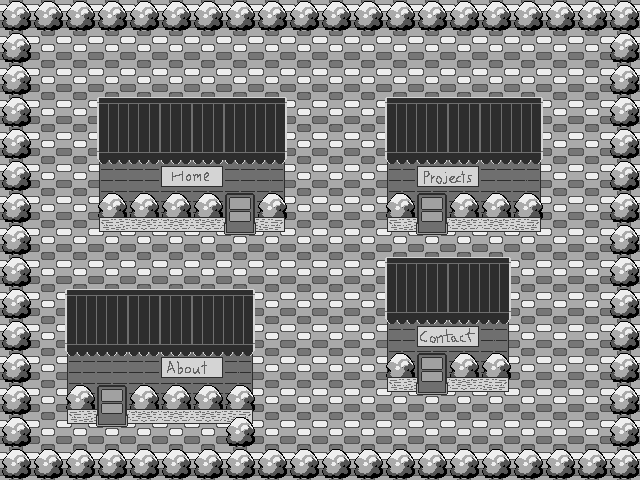
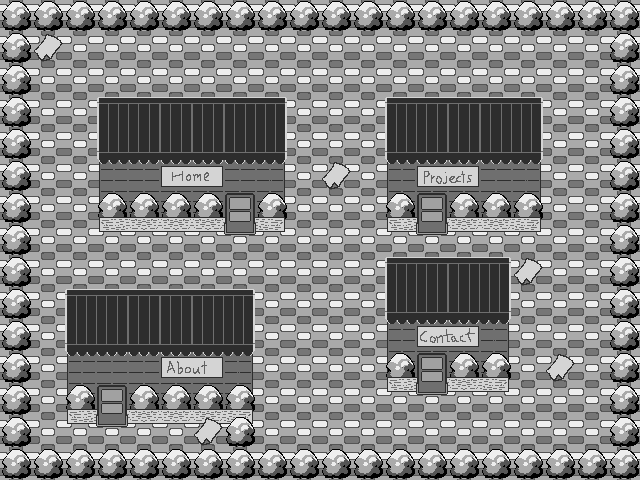
complete more translations, add resume sprites to nav grid

diff --git a/src/i18n/japanese.ts b/src/i18n/japanese.ts
@@ -79,31 +79,41 @@ export const japanese: ITranslation = {
         navigationGame: {
           title: "ナビゲーション",
           parts: [
-            "しばらくの間、新しいサイトナビゲーションのアプローチに興味がありました。",
-            "もちろん、ビジネスや組織向けのウェブサイトをデザインしている場合、ナビゲーションは目立たず使いやすいものであるべきです。おそらくユーザーにとってナビゲーション自体を気に留める必要はありません。",
-            "それは残念なことですが、サイトナビゲーションの実装方法には芸術的表現の余地もたくさんあります！",
-            "ウェブサイトにレトロゲームのテーマを選んだ際、最初は標準的なナビゲーションバー上のリンク間を2Dキャラクタースプライトが移動する形にしようと考えました。",
-            "しかし結局、現在のナビゲーションに落ち着きました。ユーザーが実際にページ間を移動するために小さな世界をナビゲートする形です。",
-            "実際には、自分好みに機能するようにするために小さな（そしてあまり良くない）ゲームエンジンを書かなければなりませんでした。",
-            "特にモバイル対応を作業するのは難しく、クリックして移動する機能を実装するためには、何らかの経路探索アルゴリズムが必要でした。機能の膨張とは言えますね！",
-            "しかし最終的には、技術的な観点からはかなり満足しています。少なくとも、ピクセルアートとアニメーションはまだ改善の余地がありますが、結果的には満足しています。"
+            "ウェブサイトのナビゲーションについて、最近興味をもつようになりました。",
+            "もちろん、ビジネスや組織向けの場合、ナビゲーションは目立たず使いやすいものであるべきです。ユーザーに、ナビゲーションがどうできているとか、考えさせた時点でアウトでしょう。",
+            "残念なことです。ウェブサイトの中で、ユーザーが実際操作するのは、ほとんどナビゲーションのことなのですから、個性を出す大きなチャンスです。",
+            "このサイトのテーマをレトロゲームにすると決めた時、まず標準的なナビゲーションバーの上に、2Dキャラクターが行き来する形にしようと考えました。",
+            "しかし色々考えたあげく、現在のナビゲーションにたどり着きました。ユーザーがページとページの間を移動する、小さな世界を実際にナビゲートする形です。",
+            "思う通りに出来上がるには、結局は小さく（かつ大してよくもない）ゲームエンジンを作らなければなりませんでした。",
+            "特にモバイル対応が大変で、クリックして移動するという機能を実装するには、経路探索アルゴリズムも必要になってきました。これぞフィーチャークリープです！",
+            "しかし最終的には、技術的な観点からはかなり満足しています。アートやアニメーションにはまだ改善の余地があるかもしれませんが…"
           ]
         }
       },
       me: {
         title: "作者",
         parts: [
-          "私の名前はジョン・スミスです。私はアメリカ人の在住外国人です。",
-          "私は日本の名古屋大学で言語学を学び、現在は韓国の沿岸の島で妻と共に小さなビジネスを経営しています。",
-          "私はコンピューターでの作業や様々な種類のゲーム、読書が好きです。",
+          "私はColby Birkheadと申します。アメリカ人ですけど、日本に行ったまま帰ってこない模様です。",
+          "日本の名古屋大学文学部で言語学を学び、卒業してから韓国の島で妻と共に小規模ビジネスを経営しています。",
+          "趣味はコンピューター、ゲーム、読書です。",
           "続き…"
-        ]
+        ],
+        callToAction: {
+          part1: "気に入っていただければ、",
+          here: "",
+          part2: "",
+          contactMe: "",
+          period: ""
+        }
       },
       myWork: {
         title: "作者の活動",
         parts: [
           "Uncaught exception: 'Not yet implemented.'"
-        ]
+        ],
+        final: "",
+        here: "",
+        period: "。"
       }
     }
   }

diff --git a/src/components/nav/navGame/defaultGrid/cells.ts b/src/components/nav/navGame/defaultGrid/cells.ts
@@ -1,11 +1,5 @@
 import { ICell, ICellPromptActionType } from "../../../../types/cell";
-import i18next, { t } from "i18next";
 
-// const treeCell: ICell = {
-//   isTraversable: false,
-//   isInteractable: true,
-//   interactText: 'Just an ordinary bush. Useful for keeping nosy adventurers on the right path.'
-// };
 const treeCell: ICell = {
   isTraversable: false,
   isInteractable: true,
@@ -63,18 +57,18 @@ const cells: ICell[][] = [
   [ treeCell, ...getNCell(2, groundCell),  ...getNCell(3, blockedCell), hedgeCell, ...getNCell(2, groundCell), ...getNCell(3, blockedCell), doorCell, groundCell,  treeCell],
   [ treeCell, ...getNCell(2, groundCell),  ...getNCell(3, blockedCell), hedgeCell, ...getNCell(2, groundCell), ...getNCell(3, blockedCell), hedgeCell, groundCell,  treeCell],
   [ treeCell, ...getNCell(2, groundCell),  ...getNCell(3, blockedCell), hedgeCell, ...getNCell(2, groundCell), ...getNCell(3, blockedCell), hedgeCell, groundCell,  treeCell],
-  [ treeCell, ...getNCell(2, groundCell),  ...getNCell(3, blockedCell), hedgeCell, ...getNCell(2, groundCell), ...getNCell(3, blockedCell), hedgeCell, groundCell,  treeCell],
+  [ treeCell, ...getNCell(2, groundCell),  ...getNCell(3, blockedCell), hedgeCell, ...getNCell(2, groundCell), ...getNCell(3, blockedCell), hedgeCell, resumeCell,  treeCell],
   [ treeCell, ...getNCell(2, groundCell),  ...getNCell(3, blockedCell), doorCell, ...getNCell(2, groundCell), ...getNCell(3, blockedCell), hedgeCell, treeCell,  treeCell],
   [ treeCell, ...getNCell(2, groundCell),  ...getNCell(3, blockedCell), hedgeCell, ...getNCell(7, groundCell),  treeCell],
   [ treeCell, ...getNCell(13, groundCell), treeCell],
-  [ treeCell, ...getNCell(13, groundCell), treeCell],
+  [ treeCell, ...getNCell(4, groundCell), resumeCell, ...getNCell(8, groundCell), treeCell],
   [ treeCell, ...getNCell(13, groundCell), treeCell],
   [ treeCell, ...getNCell(2, groundCell),  ...getNCell(3, blockedCell), hedgeCell, groundCell, ...getNCell(3, blockedCell), hedgeCell, ...getNCell(2, groundCell), treeCell],
   [ treeCell, ...getNCell(2, groundCell),  ...getNCell(3, blockedCell), doorCell, groundCell, ...getNCell(3, blockedCell), doorCell, ...getNCell(2, groundCell), treeCell],
   [ treeCell, ...getNCell(2, groundCell),  ...getNCell(3, blockedCell), hedgeCell, groundCell, ...getNCell(3, blockedCell), hedgeCell, ...getNCell(2, groundCell), treeCell],
   [ treeCell, ...getNCell(2, groundCell),  ...getNCell(3, blockedCell), hedgeCell, groundCell, ...getNCell(3, blockedCell), hedgeCell, ...getNCell(2, groundCell), treeCell],
-  [ treeCell, ...getNCell(2, groundCell),  ...getNCell(3, blockedCell), hedgeCell, ...getNCell(7, groundCell),  treeCell],
-  [ treeCell, ...getNCell(13, groundCell), treeCell],
+  [ treeCell, ...getNCell(2, groundCell),  ...getNCell(3, blockedCell), hedgeCell, groundCell, resumeCell, ...getNCell(5, groundCell),  treeCell],
+  [ treeCell, ...getNCell(10, groundCell), resumeCell, ...getNCell(2, groundCell), treeCell],
   [ treeCell, ...getNCell(13, groundCell), treeCell],  
   getNCell(15, treeCell),
 ]

diff --git a/src/i18n/english.ts b/src/i18n/english.ts
@@ -93,16 +93,31 @@ export const english: ITranslation = {
         title: "me",
         parts: [
           "My name is Colby Birkhead. I'm an American expat.",
-          "I studied Linguistics at Nagoya University in Japan, and now own and run a small business with my wife on a coastal island in South Korea.",
           "I like working with computers, games of all kinds, and reading.",
-          "To be continued..."
-        ]
+          "After high school, I somehow encountered Japanese culture, and became enthralled by it. This lead to studying the language, and eventually applying for and earning a scholarship to live and study in Nagoya, Japan for five years.",
+          "I met my wife there, and after graduating with a Bachelor of Arts in Linguistics, I moved to South Korea, where we opened a small business and started a family together.",
+          "In my free time, I've gotten back into coding. Now I'm looking to sell the business and move into software development full-time."
+        ],
+        callToAction: {
+          part1: "So if you like what you see, check out my resume",
+          here: "here",
+          part2: ", or",
+          contactMe: "contact me",
+          period: "."
+        }
       },
       myWork: {
         title: "my work",
         parts: [
-          "Uncaught exception: 'Not yet implemented.' (lol)"
-        ]
+          "Most of my life, I've been drawn by programming and programming-adjacent activities.",
+          "I tinkered with BASIC on my VTech laptop when I was a kid, and spent more time in map-editors and campaign editors than actually playing games growing up.",
+          "I studied PERL, Python, and web technologies (HTML, CSS, JavaScript, PHP) in high school.",
+          "After university, I tried out Unreal Engine, then Unity in my free time. Unity lead me to writing C#, which rekindled my joy for programming.",
+          "Now, my focus is mainly on web applications, with the occasional vacation in game development. I've also created a few applications to help run my business.",
+        ],
+        final: "You can check out some of my proudest work",
+        here: "here",
+        period: "."
       }
     }
   }

diff --git a/src/i18n/interface.ts b/src/i18n/interface.ts
@@ -44,11 +44,21 @@ export default interface ITranslation extends ResourceLanguage {
       },
       me: {
         title: string,
-        parts: string[]
+        parts: string[],
+        callToAction: {
+          part1: string,
+          here: string,
+          part2: string,
+          contactMe: string,
+          period: string
+        }
       },
       myWork: {
         title: string,
-        parts: string[]
+        parts: string[],
+        final: string,
+        here: string,
+        period: string
       },
 
     }

diff --git a/src/components/pages/about/aboutMyWork/AboutMyWork.tsx b/src/components/pages/about/aboutMyWork/AboutMyWork.tsx
@@ -1,6 +1,7 @@
 import * as React from 'react';
 import './AboutMyWork.css'
 import { useTranslation } from 'react-i18next';
+import { Link } from 'react-router-dom';
 
 interface IAboutMyWorkProps {
 
@@ -21,6 +22,7 @@ export default function AboutMyWork(props: IAboutMyWorkProps): JSX.Element | nul
             part =>
             <p key={part}>{part}</p>
           )}
+        <p>{t('aboutPage.myWork.final')} <Link to={'/projects'}>{t('aboutPage.myWork.here')}</Link>{t('aboutPage.myWork.period')}</p>
       </div>
     </div>
   );
